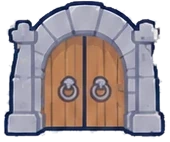
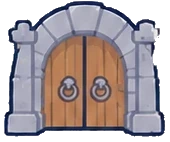
物語:家を大きく明るく・札の文字をかわいく・門の位置と白ふち・檻のたいまつ取りとすかし(未公開)

diff --git a/src/live2d/storyboard.js b/src/live2d/storyboard.js
@@ -24,7 +24,7 @@ const FROG_HOP = { frames: ['frog_crouch'], hop: 'frog_jump_mid' };
 const DRAGON_FLY = ['dragon_2', 'dragon_3'];
 
 export const PROLOGUE = { id: 'pro', code: 'P', label: 'プロローグ', scenes: [
-  { bgm: 'peace', dur: 5.4, bg: 'home', props: [['house', 23, null, 22, { ground: 14 }]], lines: [L('', 'フロリはパパフロリ・ママフロリと仲良く暮らしていました。')], hops: [{ at: 2.8, who: 'flori' }],
+  { bgm: 'peace', dur: 5.4, bg: 'home', props: [['house', 26, null, 30, { ground: 13 }]], lines: [L('', 'フロリはパパフロリ・ママフロリと仲良く暮らしていました。')], hops: [{ at: 2.8, who: 'flori' }],
     actors: { papa: A(74, { s: 0.45, y: BACKY, ...SMILE }), mama: A(90, { s: 0.45, y: BACKY + 3, ...SMILE }), flori: A(50, { s: 0.85, z: 2, ...SMILE }) } },
   { bgm: 'alarm', dur: 6.6, bg: 'dusk',  hops: [{ at: 5.2, who: 'flori' }, { at: 5.2, who: 'papa' }, { at: 5.2, who: 'mama' }], lines: [L('', 'ところがある日、空が真っ暗に…! ドラゴンが現れました!')],
     foes: [{ art: 'dragon_2', frames: DRAGON_FLY, fps: 4, h: 7, hTo: 30, from: [108, 4], to: [52, 41], yPow: 2.4, flip: false }], flash: 3.6, shake: [3.6, 0.9],
@@ -33,8 +33,8 @@ export const PROLOGUE = { id: 'pro', code: 'P', label: 'プロローグ', scenes
   { bgm: 'sad', dur: 5.6, bg: 'night', lines: [L('', 'ドラゴンはパパとママを連れ去ってしまったのです!')],
     foes: [{ art: 'dragon_2', frames: DRAGON_FLY, fps: 4, h: 30, hTo: 14, from: [26, 14], to: [-30, -12], flip: false }],
     actors: { papa: A(11, { s: BACK, y: BACKY, ...SURPRISE, faces: HOLD('surprised'), cues: [CUE('wave', 0.2, 2.6)], to: { x: -24, y: 78, s: 0.3 } }), mama: A(38, { s: BACK, y: BACKY, ...SURPRISE, faces: HOLD('surprised'), cues: [CUE('wave', 0.2, 2.6)], to: { x: -34, y: 74, s: 0.3 } }), flori: A(74, { s: 1.1, mood: 'しょんぼり', anim: 'sway', calm: true, faces: HOLD('wrong') }) } },
-  { bgm: 'sad', dur: 6.4, bg: 'castle', props: [['deco_torch', 28, null, 16, { ground: 2 }], ['deco_torch', 92, null, 16, { ground: 2 }]], lines: [L('パパフロリ', 'フロリ助けてくれ〜!', 0), L('ママフロリ', 'ひらめきの力を信じてネ!', 3.2)],
-    marks: [{ art: 'fx_cage', at: 0, to: 99, x: 65, y: 88, h: 32, still: true }],
+  { bgm: 'sad', dur: 6.4, bg: 'castle', lines: [L('パパフロリ', 'フロリ助けてくれ〜!', 0), L('ママフロリ', 'ひらめきの力を信じてネ!', 3.2)],
+    marks: [{ art: 'fx_cage', alpha: 0.82, at: 0, to: 99, x: 65, y: 88, h: 32, still: true }],
     actors: { papa: A(55, { y: 0, s: 0.4, mood: 'しょんぼり', faces: HOLD('wrong'), cues: [CUE('wave', 0.5, 2.6)] }), mama: A(75, { y: 6, s: 0.4, mood: 'しょんぼり', faces: HOLD('wrong'), cues: [CUE('wave', 1.2, 2.6)] }) } },
   { bgm: 'resolve', dur: 4.8, bg: 'dusk', lines: [L('フロリ', '任せて! ひらめきクイズでドラゴンを倒してパパとママを助けるヨ!')], hops: HOPS(4, 0.3, 1.2),
     actors: { flori: A(50, { s: 1.6, ...BRAVE, cues: [CUE('cheer', 0.3, 2.6)] }) } },
@@ -82,17 +82,17 @@ export const EP2 = { id: 'ep2', code: '②', label: '②カエル', scenes: [
 ] };
 
 export const EP3 = { id: 'ep3', code: '③', label: '③決戦前', scenes: [
-  { bgm: 'alarm', dur: 6.6, bg: 'gate', card: 'card_ep3', props: [['deco_gate', 78, null, 48, { ground: 14 }], ['deco_torch', 62, null, 16, { ground: 10 }], ['deco_torch', 94, null, 16, { ground: 10 }]], lines: [L('', '第3話「決戦の前に」\nお城の門の前にサソリの門番が塞がっている!')],
+  { bgm: 'alarm', dur: 6.6, bg: 'gate', card: 'card_ep3', props: [['deco_gate', 46, null, 30, { ground: 17 }], ['deco_torch', 62, null, 16, { ground: 10 }], ['deco_torch', 94, null, 16, { ground: 10 }]], lines: [L('', '第3話「決戦の前に」\nお城の門の前にサソリの門番が塞がっている!')],
     foes: [{ art: 'scorpion_guard', frames: ['scorpion_guard', 'scorpion_claws_up'], fps: 2, h: 16, ground: true, delay: 3.0, from: [124, 0], to: [70, 0] }],
     marks: [{ art: 'fx_exclaim', at: 4.4, to: 6.4, x: 28, y: 44, h: 14 }], actors: { flori: A(-40, { s: 1.2, walk: true, delay: 1.6, to: { x: 28 }, faces: [{ at: 0, to: 4.4 }, { at: 4.4, pose: 'surprised' }], cues: [CUE('raise', 4.4, 2.4)], anim: 'shock', animAt: 4.4 }) } },
-  { bgm: 'battle', dur: 4.2, bg: 'gate', props: [['deco_gate', 78, null, 48, { ground: 14 }], ['deco_torch', 62, null, 16, { ground: 10 }], ['deco_torch', 94, null, 16, { ground: 10 }]], lines: [L('フロリ', 'ひらめきを全部ぶつけて… えいっ!')],
+  { bgm: 'battle', dur: 4.2, bg: 'gate', props: [['deco_gate', 46, null, 30, { ground: 17 }], ['deco_torch', 62, null, 16, { ground: 10 }], ['deco_torch', 94, null, 16, { ground: 10 }]], lines: [L('フロリ', 'ひらめきを全部ぶつけて… えいっ!')],
     foes: [{ art: 'scorpion_guard', art2: 'scorpion_hit', swapAt: 1.4, hold: 1.4, h: 16, ground: true, from: [70, 0], to: [118, 0] }], flash: 1.4, shake: [1.4, 0.7], hops: [{ at: 1.2, who: 'flori' }],
     marks: [{ art: 'fx_impact', at: 1.3, to: 2.1, x: 62, y: 80, h: 22 }],
     actors: { flori: A(28, { s: 1.2, ...GRIT, faces: [{ at: 0 }], walk: true, to: { x: 42 } }) } },
-  { bgm: 'joy', dur: 5.4, bg: 'gate', props: [['deco_gate', 78, null, 48, { ground: 14 }], ['deco_torch', 62, null, 16, { ground: 10 }], ['deco_torch', 94, null, 16, { ground: 10 }]], lines: [L('フロリ', 'やった! サソリを追い払ったヨ!', 0), L('フロリ', 'さあお城の奥に進もう!', 2.8)],
+  { bgm: 'joy', dur: 5.4, bg: 'gate', props: [['deco_gate', 46, null, 30, { ground: 17 }], ['deco_torch', 62, null, 16, { ground: 10 }], ['deco_torch', 94, null, 16, { ground: 10 }]], lines: [L('フロリ', 'やった! サソリを追い払ったヨ!', 0), L('フロリ', 'さあお城の奥に進もう!', 2.8)],
     actors: { flori: A(42, { s: 1.2, ...JOY, faces: [{ at: 0, to: 2.8, pose: 'smile' }, { at: 2.8, pose: 'nikkori' }], cues: [CUE('cheer', 0.2, 2.6, 2.6), CUE('flap', 3.0, 2.6)], walk: true, to: { x: 62 } }) } },
-  { bgm: 'walk', dur: 5.4, bg: 'gate', props: [['deco_gate', 78, null, 48, { ground: 14 }], ['deco_torch', 62, null, 16, { ground: 10 }], ['deco_torch', 94, null, 16, { ground: 10 }]], lines: [L('', '門の奥から、ぼうっと赤い光が…。フロリは、そっとお城の中へ進んでいく。')],
-    actors: { flori: A(62, { s: 1.2, ...SMILE, faces: HOLD('nikkori'), cues: [CUE('flap', 0.4, 2.6)], walk: true, to: { x: 84, s: 0.8 } }) } },
+  { bgm: 'walk', dur: 5.4, bg: 'gate', props: [['deco_gate', 46, null, 30, { ground: 17 }], ['deco_torch', 62, null, 16, { ground: 10 }], ['deco_torch', 94, null, 16, { ground: 10 }]], lines: [L('', '門の奥から、ぼうっと赤い光が…。フロリは、そっとお城の中へ進んでいく。')],
+    actors: { flori: A(62, { s: 1.2, ...SMILE, faces: HOLD('nikkori'), cues: [CUE('flap', 0.4, 2.6)], walk: true, to: { x: 46, s: 0.7 } }) } },
   { bgm: 'alarm', dur: 5, bg: 'castle', lines: [L('', '警告! お城の奥からドラゴンの声が響く…!')],
     foes: [{ art: 'dragon_5', h: 30, hTo: 46, from: [124, 26], to: [62, 24], flip: false, shake: true }], shake: [0.3, 1.4],
     actors: { flori: A(26, { s: 1.0, ...SURPRISE, faces: HOLD('surprised'), calm: true, anim: 'shock' }) } },
@@ -125,13 +125,13 @@ export const EP4 = { id: 'ep4', code: '④', label: '④ドラゴン', scenes: [
 ] };
 
 export const ENDING = { id: 'epi', code: 'E', label: 'エンディング', scenes: [
-  { bgm: 'warm', dur: 11.0, bg: 'castle', props: [['deco_torch', 94, null, 16, { ground: 2 }]], lines: [L('フロリ', 'パパ! ママ! お待たせ!', 0), L('パパフロリ', 'フロリ! 来てくれたんだね!', 3.8), L('ママフロリ', 'きっと来てくれると信じてたわ!', 7.4)],
-    marks: [{ art: 'fx_cage', at: 0, to: 99, x: 65, y: 91, h: 32, still: true }],
+  { bgm: 'warm', dur: 11.0, bg: 'castle', lines: [L('フロリ', 'パパ! ママ! お待たせ!', 0), L('パパフロリ', 'フロリ! 来てくれたんだね!', 3.8), L('ママフロリ', 'きっと来てくれると信じてたわ!', 7.4)],
+    marks: [{ art: 'fx_cage', alpha: 0.82, at: 0, to: 99, x: 65, y: 91, h: 32, still: true }],
     actors: { flori: A(-40, { s: 1.0, faces: [{ at: 0 }], cues: [CUE('expr', 0.4), CUE('wave', 1.8), CUE('expr', 4.9), CUE('flap', 6.2), CUE('expr', 8.8), CUE('wave', 9.6)], walk: true, len: 2.0, to: { x: 24 } }),
       papa: A(55, { y: 0, s: 0.4, mood: 'こまった', calm: true, faces: [{ at: 0, to: 3.8, pose: 'wrong' }, { at: 3.8, pose: 'smile' }] }),
       mama: A(75, { y: 0, s: 0.4, mood: 'こまった', calm: true, faces: [{ at: 0, to: 7.4, pose: 'wrong' }, { at: 7.4, pose: 'smile' }] }) } },
-  { bgm: 'warm', dur: 7.0, bg: 'castle', props: [['deco_torch', 94, null, 16, { ground: 2 }]], lines: [L('フロリ', 'カギを手に入れたよ! 今から出すね!', 0), L('フロリ', 'えいっ! 檻が開いたヨ!', 4.2)],
-    marks: [{ art: 'fx_cage', at: 0, to: 5.0, x: 65, y: 91, h: 32, still: true }],
+  { bgm: 'warm', dur: 7.0, bg: 'castle', lines: [L('フロリ', 'カギを手に入れたよ! 今から出すね!', 0), L('フロリ', 'えいっ! 檻が開いたヨ!', 4.2)],
+    marks: [{ art: 'fx_cage', alpha: 0.82, at: 0, to: 5.0, x: 65, y: 91, h: 32, still: true }],
     foes: [{ art: 'key', h: 9, ground: true, len: 3.2, until: 5.0, from: [30, 19], to: [38, 19] }],
     actors: { flori: A(18, { s: 0.9, faces: [{ at: 0 }], handSide: 'L', cues: [CUE('raise1', 0.2), CUE('expr', 4.0, 1.8)], walk: true, len: 3.2, to: { x: 26 } }),
       papa: A(55, { y: 0, s: 0.4, mood: 'こまった', calm: true, faces: HOLD('smile') }), mama: A(75, { y: 0, s: 0.4, mood: 'こまった', calm: true, faces: HOLD('smile') }) } },
@@ -141,7 +141,7 @@ export const ENDING = { id: 'epi', code: 'E', label: 'エンディング', scene
     actors: { flori: A(118, { s: 1.0, z: 2, ...JOY, anim: 'bounce', walk: true, to: { x: 18 } }), papa: A(130, { s: 0.7, y: 6, ...JOY, anim: 'bounce', walk: true, to: { x: 54 } }), mama: A(142, { s: 0.7, y: 12, ...JOY, anim: 'bounce', walk: true, to: { x: 86 } }) } },
   { bgm: 'joy', dur: 5.2, bg: 'sunrise', lines: [L('ママフロリ', 'ひらめきの力はかっこよかったわ!')], fx: { art: ['heart', 'sparkle'], mode: 'rise', rate: 110 }, hops: [{ at: 1, who: 'flori' }, { at: 2, who: 'papa' }, { at: 3, who: 'mama' }],
     actors: { papa: A(13, { s: BACK, y: BACKY, ...SMILE }), mama: A(87, { s: BACK, y: BACKY, ...SMILE }), flori: A(50, { s: FRONT, z: 2, ...JOY }) } },
-  { bgm: 'peace', dur: 5.4, bg: 'home', props: [['house', 23, null, 22, { ground: 14 }]], titleArt: 'title_end', lines: [L('', 'こうしてフロリたち家族はまた仲良く暮らしました。 おしまい。')],
+  { bgm: 'peace', dur: 5.4, bg: 'home', props: [['house', 26, null, 30, { ground: 13 }]], titleArt: 'title_end', lines: [L('', 'こうしてフロリたち家族はまた仲良く暮らしました。 おしまい。')],
     actors: { papa: A(74, { s: 0.45, y: BACKY, ...SMILE, cues: [CUE('wave', 0, 2.6)] }), mama: A(90, { s: 0.45, y: BACKY + 3, ...SMILE, cues: [CUE('wave', 0, 2.6)] }), flori: A(50, { s: 0.85, z: 2, ...SMILE, cues: [CUE('wave', 0, 2.6)] }) } },
 ] };
 

diff --git a/src/live2d/story-movie.html b/src/live2d/story-movie.html
@@ -1,6 +1,8 @@
 <!doctype html>
 <html lang="ja"><head><meta charset="utf-8"><meta name="viewport" content="width=device-width,initial-scale=1,maximum-scale=1,user-scalable=no">
 <title>フロリの物語</title>
+<link rel="preconnect" href="https://fonts.googleapis.com"><link rel="preconnect" href="https://fonts.gstatic.com" crossorigin>
+<link rel="stylesheet" href="https://fonts.googleapis.com/css2?family=Zen+Maru+Gothic:wght@700;900&display=swap">
 <style>
 html,body{margin:0;height:100%;overflow:hidden;touch-action:manipulation}
 body{font:16px system-ui,"Hiragino Sans","Yu Gothic",sans-serif;user-select:none;-webkit-user-select:none;background:#111;color:#2a3440}
@@ -46,9 +48,9 @@ body{font:16px system-ui,"Hiragino Sans","Yu Gothic",sans-serif;user-select:none
 #title img{width:76%;height:auto}
 #card{display:none;position:absolute;left:50%;top:calc(var(--u)*12);width:84%;transform:translateX(-50%);opacity:0;z-index:4;filter:drop-shadow(0 calc(var(--u)*.6) calc(var(--u)*.8) rgba(0,0,0,.3))}
 #card-bg{display:block;width:100%;height:auto}
-#card-text{position:absolute;display:flex;flex-direction:column;align-items:center;justify-content:center;text-align:center;color:#4a2f14;font-weight:bold;gap:calc(var(--u)*.4);line-height:1.25}
-#card-no{font-size:calc(var(--u)*5.2);letter-spacing:.06em}
-#card-name{font-size:calc(var(--u)*3.6)}
+#card-text{position:absolute;display:flex;flex-direction:column;align-items:center;justify-content:center;text-align:center;font-family:"Zen Maru Gothic","Hiragino Maru Gothic ProN","Yu Gothic UI",sans-serif;font-weight:900;gap:calc(var(--u)*.2);line-height:1.15}
+#card-no{font-size:calc(var(--u)*8.2);letter-spacing:.08em;color:#ff7a4d;-webkit-text-stroke:calc(var(--u)*1.1) #fff;paint-order:stroke fill;text-shadow:0 calc(var(--u)*.5) 0 #c85a2a}
+#card-name{text-wrap:balance;font-size:calc(var(--u)*4.7);color:#6a3f22;-webkit-text-stroke:calc(var(--u)*.9) #fff;paint-order:stroke fill;text-shadow:0 calc(var(--u)*.4) 0 rgba(160,110,60,.55)}
 #card.show{animation:cardIn 3.4s ease forwards}
 @keyframes cardIn{0%{opacity:0;transform:translate(-50%,calc(var(--u)*-3))}12%{opacity:1;transform:translate(-50%,0)}80%{opacity:1}100%{opacity:0}}
 .foe{z-index:10;position:absolute;height:auto;width:auto;filter:drop-shadow(0 calc(var(--u)*.7) calc(var(--u)*.7) rgba(0,0,0,.35))}

diff --git a/src/live2d/story-movie.js b/src/live2d/story-movie.js
@@ -216,7 +216,7 @@ function setScene(i) {
   for (const d of bgsEl.children) { if (d.dataset.bg === sc.bg) ensureBg(d); d.style.opacity = d.dataset.bg === sc.bg ? 1 : 0; }
   // 場面が かわるときの 暗転は、やめた(利用者の指示)   // 場面が かわるとき、暗転ぎみに つなぐ
   prevBg = sc.bg;
-  props.innerHTML = (sc.props || []).map(([art, x, y, h, o]) => `<img class="prop" alt="" src="${artUrl(art)}" style="left:${x}%;${o?.ground !== undefined ? `bottom:calc(var(--u)*${GROUND + o.ground})` : `top:calc(var(--u)*${y})`};height:calc(var(--u)*${h})">`).join('');
+  props.innerHTML = (sc.props || []).map(([art, x, y, h, o]) => `<img class="prop" alt="" src="${artUrl(art)}" style="${art === 'house' ? 'filter:brightness(1.2) contrast(.86) saturate(.9);' : ''}left:${x}%;${o?.ground !== undefined ? `bottom:calc(var(--u)*${GROUND + o.ground})` : `top:calc(var(--u)*${y})`};height:calc(var(--u)*${h})">`).join('');
   koma.textContent = `${movie.code}${i + 1}`;
   title.innerHTML = sc.titleArt ? `<img alt="" src="${artUrl(sc.titleArt)}">` : (sc.title || '');
   title.classList.toggle('on', Boolean(sc.title || sc.titleArt));
@@ -326,7 +326,7 @@ function frame(now) {
   (sc.marks || []).forEach((m, n) => {
     const s = marksEl.children[n]; if (!s) return;
     const on = lt >= m.at && lt < m.to, q = Math.min(1, (lt - m.at) / 0.25);
-    s.style.opacity = on ? 1 : 0;
+    s.style.opacity = on ? (m.alpha ?? 1) : 0;
     s.style.transform = `translate(-50%,-50%) scale(${m.still ? 1 : on ? 0.4 + 0.6 * ease(q) + Math.sin(now / 90) * 0.04 : 0.4})`;
   });
   // ゆっくり流れる雲・太陽

diff --git a/docs/decisions.md b/docs/decisions.md
@@ -1798,3 +1798,4 @@ scheme.md の「未定の事項」を決めたらここに追記する。
 - 直したこと:`furigana-data.js` の ENTRIES の最後に、約180語を足した(熟語の読み・訓読み。「持ち主{ぬし}」「言い方{かた}」「日間{にちかん}」「か月{げつ}」「割増え」など、前後の文字を含む形も)。足したあと、全問で、ふりがなが付かない漢字は0。
 - 確認できていないこと:全部の読みを、1つずつ人の目で確かめたわけではない。熟語が1文字ずつの読みでつながっている所(「1番高い」のような、数字+漢字)は、読みが合っているものを見て、そのままにした。「持ち主」のように、前後の文字で読みが変わるものは、気づいた分だけ直した。実機で見て、おかしい読みがあれば、その文を教えてほしい。
 - 版は、furigana 系・main.js・ムービーを `20261118a` に上げた(司会が出した `20261117z` より新しい値)。
+- 追記(B、2026-11-18)利用者の指示:家をもっと大きく・明るく(ムービーの中で brightness)。札の文字を もっと大きく・かわいく(丸ゴシック・ふちどり・オレンジの数字)。門(deco_gate)を、指定の位置・大きさ(x46%・高さ30)に置き、ふちの白いがびがびを取った。檻の場面のたいまつを取り、檻を少しすかした(alpha 0.82。`storyboard.js` の marks `alpha`)。
